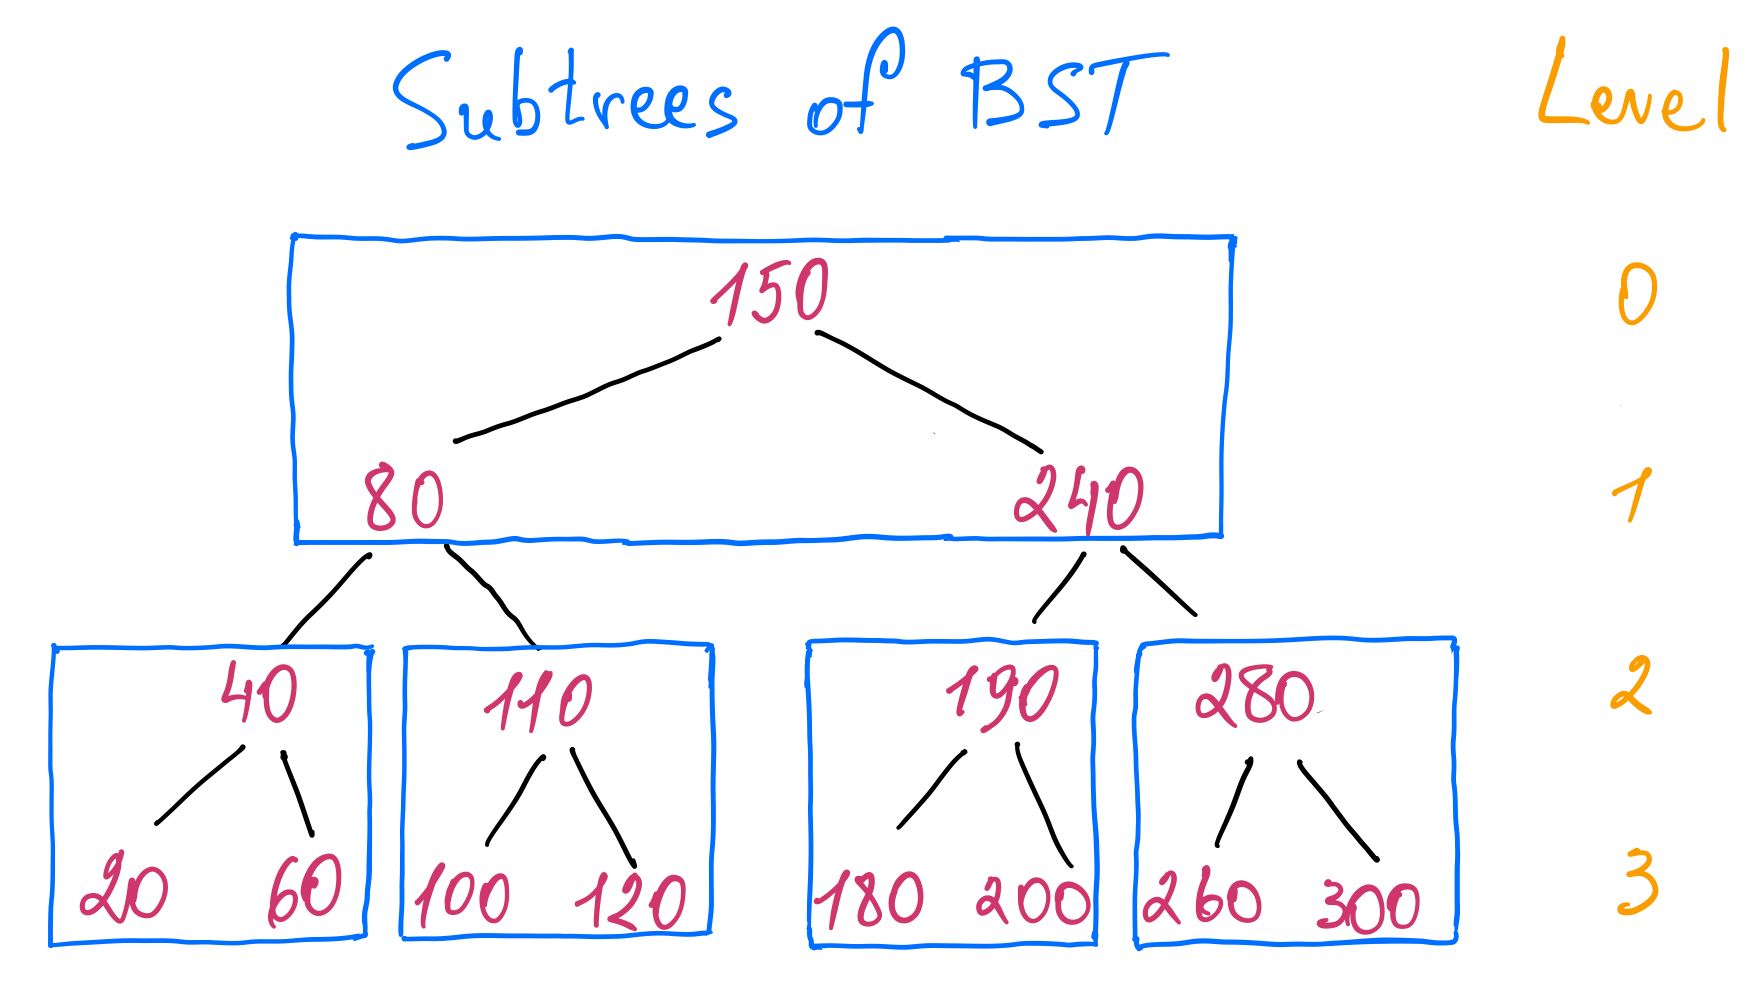
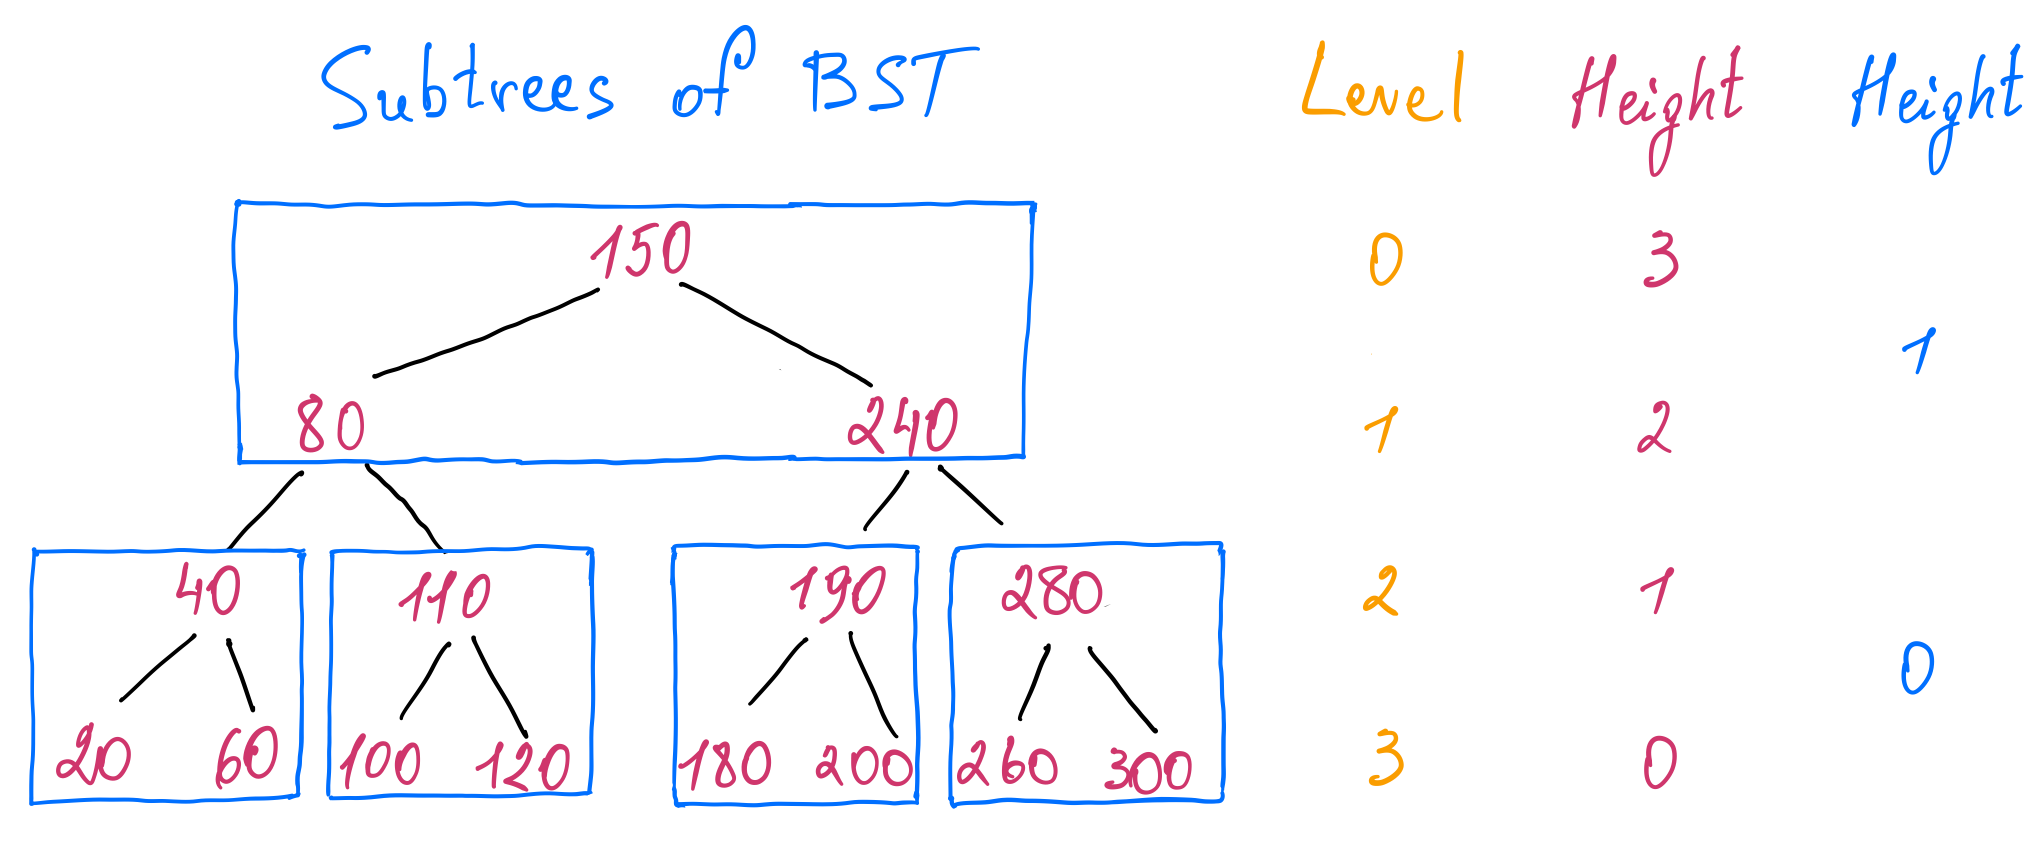
Fix the definition of the level and the height of the tree

diff --git a/_posts/2022-03-31-why-b-tree-is-so-widely-used-in-databases.md b/_posts/2022-03-31-why-b-tree-is-so-widely-used-in-databases.md
@@ -4,7 +4,7 @@ title:  "Why B-tree is so widely used in databases?"
 date:   2022-03-31 07:00:00 +0100
 ---
 I have spent quite some time researching how a database works internally and I thought to 
-write about what I have learned so far. A database system consists of many components like
+write about what I have learned so far. A database system consists of many components
 like the query planner, the query execution engine, the storage engine, the data replication
 and sharding mechanisms, etc. The key component is the storage engine, which determines how
 the data is represented, accessed and stored. It consists of several different components,
@@ -68,10 +68,9 @@ otherwise specified.
 
 ![Binary search tree](/assets/posts/b-tree/binary-search-tree.png)
 
-The minimum height of the binary search tree is \\(log_2 n\\), where n is the number of nodes
-in the tree. This follows from the structure of the tree. Each node can have at most two child nodes.
-So on the first level of tree we can have at most one node (the root), on the second level 
-we can have at most two nodes, on the third level four nodes, on the forth level eight nodes 
+The minimum height of the binary search tree is \\(log_2 (n + 1) - 1\\), where n is the number of
+nodes in the tree. This follows from the structure of the tree. Each node can have at most two
+child nodes. So on the first level of tree we can have at most one node (the root), on the second level we can have at most two nodes, on the third level four nodes, on the forth level eight nodes
 and so on. It forms a [geometric progression](https://en.wikipedia.org/wiki/Geometric_series#Closed-form_formula) of the following form:
 
 \begin{aligned}
@@ -91,12 +90,12 @@ Therefore, the minimum number of levels, that is, the minimum height of the tree
 \end{aligned}
 
 So the average time complexity of all three operations (search, insert and delete)
-is \\(O(log_{2}{n})\\). The insertion and deletion operations have to perform a binary search in 
-order to determine where to insert or delete the record. But their worst time complexity 
-is \\(O(n)\\). This is because the tree becomes unbalanced (i.e. the height of tree is 
-greater than \\(log_2 n \\)) after arbitrary insertions and deletions. Furthermore, if we insert 
-records that are already sorted, then the tree will degenerate into a linked list 
-(each record will be inserted into one part of the tree leaving the other part empty). 
+is \\(O(log_{2}{n})\\). The insertion and deletion operations have to perform a binary search in
+order to determine where to insert or delete the record. But their worst time complexity
+is \\(O(n)\\). This is because the tree becomes unbalanced (i.e. the height of tree is
+greater than \\(log_2 n \\)) after arbitrary insertions and deletions. Furthermore, if we insert
+records that are already sorted, then the tree will degenerate into a linked list
+(each record will be inserted into one part of the tree leaving the other part empty).
 One example of unbalance of the above binary search tree depending on the order of insert and
 delete operations looks like the following:
 
@@ -150,21 +149,21 @@ operation.
 
 Let's play with the structure of the binary search tree keeping in mind the problems of the height
 and see if we can do something about them. The level of a node is the number of edges from it
-to the root. The root node has level zero, because it does not have a root.
-The height of the tree is equal to the level of the deepest node in the tree plus one, 
-or simply put, it is the total number of levels in the tree. If we reduce the number of levels,
-we reduce the height of the tree.
+to the root. The root node has level zero. The height of a node is the length of the longest
+path of edges to a leaf from that node. A leaf node has hight zero. The height of the root node is
+the height of the tree. It is similar to the level of a node, it is just counted in the opposite
+direction.
 
 A tree is composed of smaller subtrees. Let's identify subtrees of an arbitrary height
-in our binary search tree example. If we choose the height to be two, we can find 
+in our binary search tree example. If we choose the height to be one, we can find 
 the following subtrees:
 
 ![Deriving B-tree](/assets/posts/b-tree/deriving-b-tree.png)
 
 We can make an interesting observation that if we consider each subtree as being a node, we
-obtain a new tree where the total number of levels is reduced by half and hence the height of
+obtain a new tree where the total number of levels is reduced by half and the height of
 the tree is also reduced by half. We can think of it as creating a tree of a tree, 
-where each node of the new tree references a subtree of the old one. 
+where each node of the new tree references a subtree of the old one.
 
 Also, a node has more than two children. All keys of the most left child node 
 are smaller than the first key of the parent node. The keys of the second child node have 
@@ -372,10 +371,10 @@ Then, it follows, that the height of the B-tree is:
 
 This is the relationship we were looking for to understand why the size of the B-tree we
 have obtained after applying certain transformations to the binary search tree, was reduced by half.
-We had 16 entries in the binary search tree. Its height was 4 (\\(log_2{16} = 4\\)). Next we have
-created a B-tree, where each node had 3 entries representing a subtree of the binary search tree. 
-Using the above formula, we calculate the height of the B-tree to be 2 (\\(log_4{16} = 2\\)).
-Hence, the height is reduced by half, from 4 to 2.
+We had 15 entries in the binary search tree. Its height was 3 (\\(log_2{(15 + 1)} - 1 = 3\\)).
+Next we have created a B-tree, where each node had 3 entries representing a subtree of the binary 
+search tree. Using the above formula, we calculate the height of the B-tree to
+be 1 (\\(\lfloor log_4{15} \rfloor = 1\\)). Hence, the height was reduced by half, from 3 to 1.
 
 Given this relationship, we can deduce the time complexity for all B-tree operations (search, insert
 and delete) as it is shown in the following table:
@@ -606,6 +605,6 @@ investigated how records are updated in a B-tree. This would be the subject of a
 
 <hr>
 
-[^1]: These latency numbers are taken from a presentation, named *Software engineering advice from building large-scale distributed systems* ([slide 13](https://static.googleusercontent.com/media/research.google.com/en//people/jeff/stanford-295-talk.pdf)), given by Jeff Dean, a Google Fellow. They are sufficiently accurate to show the latency difference between the main and secondary memory. Originally many of these numbers were presented by Peter Norvig [here](http://norvig.com/21-days.html#answers). An interactive visualization of the evolution of latency numbers over years could be found [here](https://colin-scott.github.io/personal_website/research/interactive_latency.html).
+[^1]: These latency numbers are taken from a presentation, named *Software engineering advice from building large-scale distributed systems* ([13th slide](https://static.googleusercontent.com/media/research.google.com/en//people/jeff/stanford-295-talk.pdf)), given by Jeff Dean, a Google Fellow. They are sufficiently accurate to show the latency difference between the main and secondary memory. Originally many of these numbers were presented by Peter Norvig [here](http://norvig.com/21-days.html#answers). An interactive visualization of the evolution of latency numbers over years could be found [here](https://colin-scott.github.io/personal_website/research/interactive_latency.html).
 [^2]: The mathematical expressions describing the ordering of elements in a B-tree and its height are taken from the *Organization and maintenance of large ordered indices* paper written by the Rudolf Bayer and Edward McCreight in 1970. I highly recommend reading it. It describes in great detail the B-tree along with benchmarks assessing its performance.
 [^3]: In 1977, Rudolf Bayer and Karl Unterauer published a new paper, named *Prefix B-trees*, introducing the idea of a prefix B-tree.
